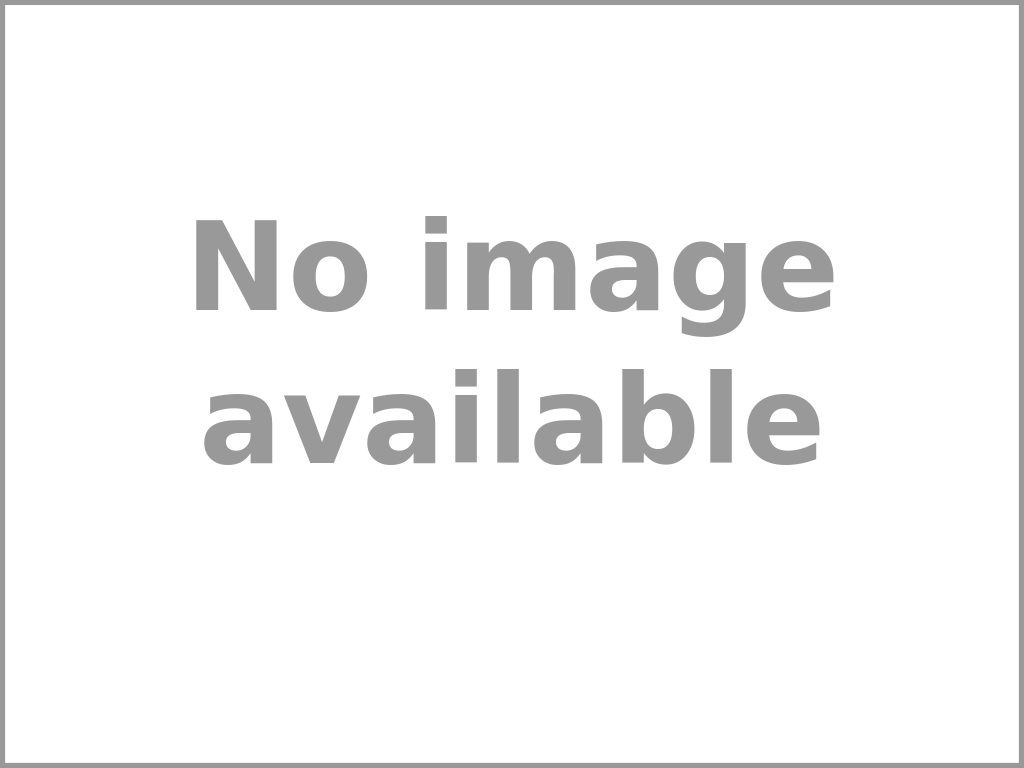
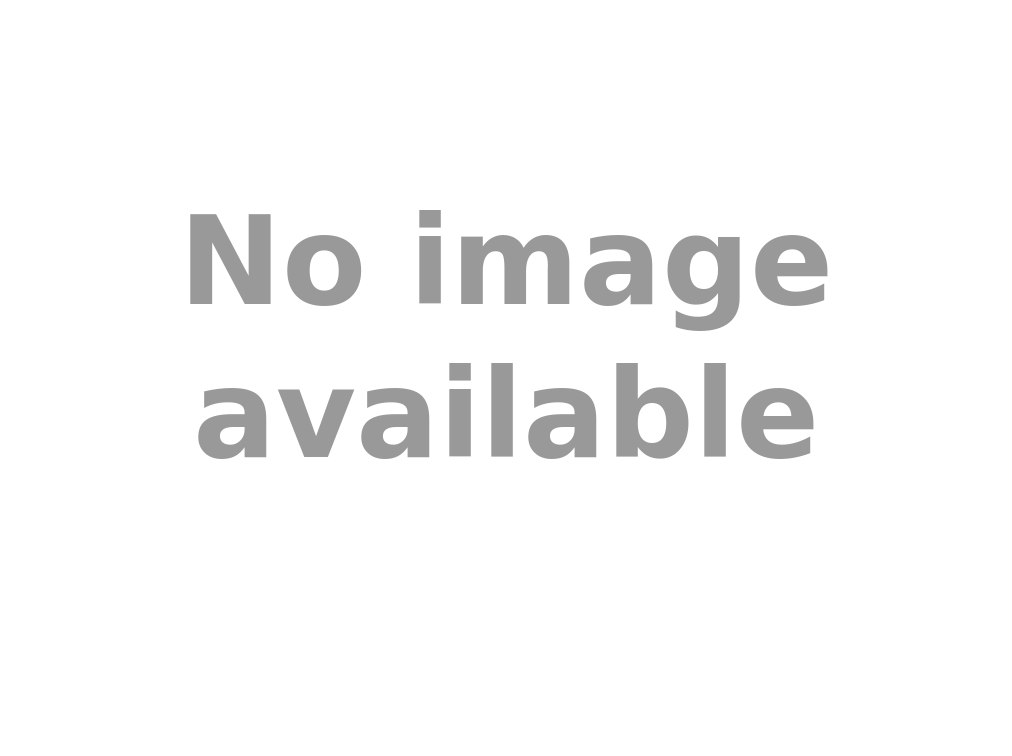
Changed the no image placeholder image; added a border above the listing price section for page elements

diff --git a/src/js/components/advertisements/AdvertisementTradeItem.js b/src/js/components/advertisements/AdvertisementTradeItem.js
@@ -3,9 +3,15 @@ import utils from '../../utility/utilities';
 import React, { Component } from 'react';
 
 export default class AdvertisementTradeItem extends Component {
+  constructor(props) {
+    super(props);
+
+    this.style = this.props.adPage ? "listing-item uk-card-header" : "listing-item-ele listing-item uk-card-header";
+  }
+
   render() {
     return (
-      <div className="listing-item uk-card-header">
+      <div className={this.style}>
         {
           utils.getPrice(this.props.ad) === 'Free' && !this.props.ad.tradeItem ?
           <p className="listing-item-price uk-margin-remove"><span className="uk-text-break">Free</span></p>

diff --git a/src/js/components/advertisements/AdvertisementCard.js b/src/js/components/advertisements/AdvertisementCard.js
@@ -20,7 +20,7 @@ export default class AdvertisementCard extends Component {
               ''
           }
           <AdMedia content={this.props.media} adPage={this.props.adPage} />
-          <AdTradeItem ad={this.props.ad} />
+          <AdTradeItem ad={this.props.ad} adPage={this.props.adPage} />
           <AdHeader ad={this.props.ad} />
           <AdBody content={this.props.body} />
           <AdFooter content={this.props.footer} />

diff --git a/src/css/styles.css b/src/css/styles.css
@@ -317,6 +317,10 @@ blue with black
 
 /* Advertisement Details Page */
 
+.listing-item-ele {
+  border-top: 1px solid #e5e5e5;
+}
+
 .listing-item {
   font-weight: bold;
 }
